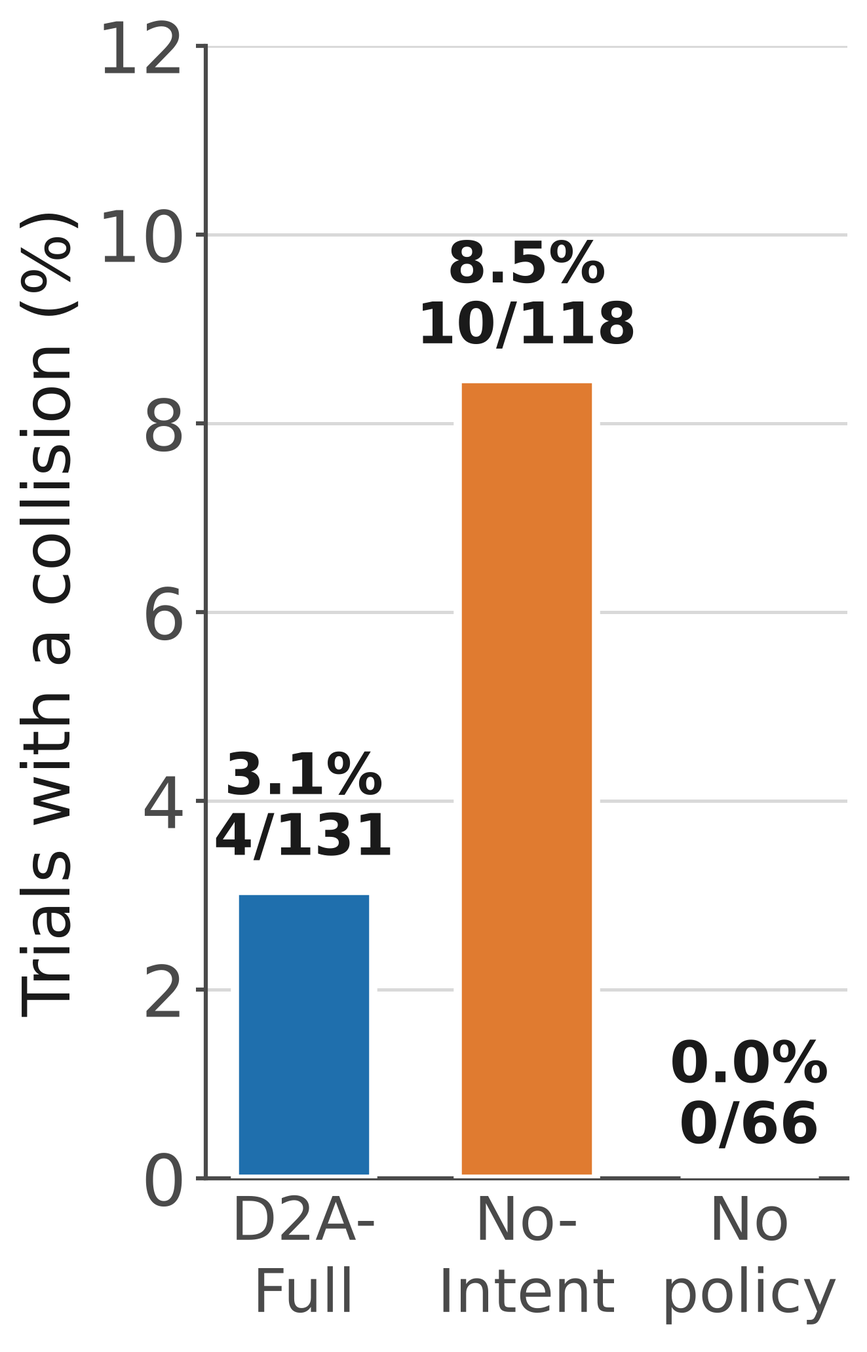
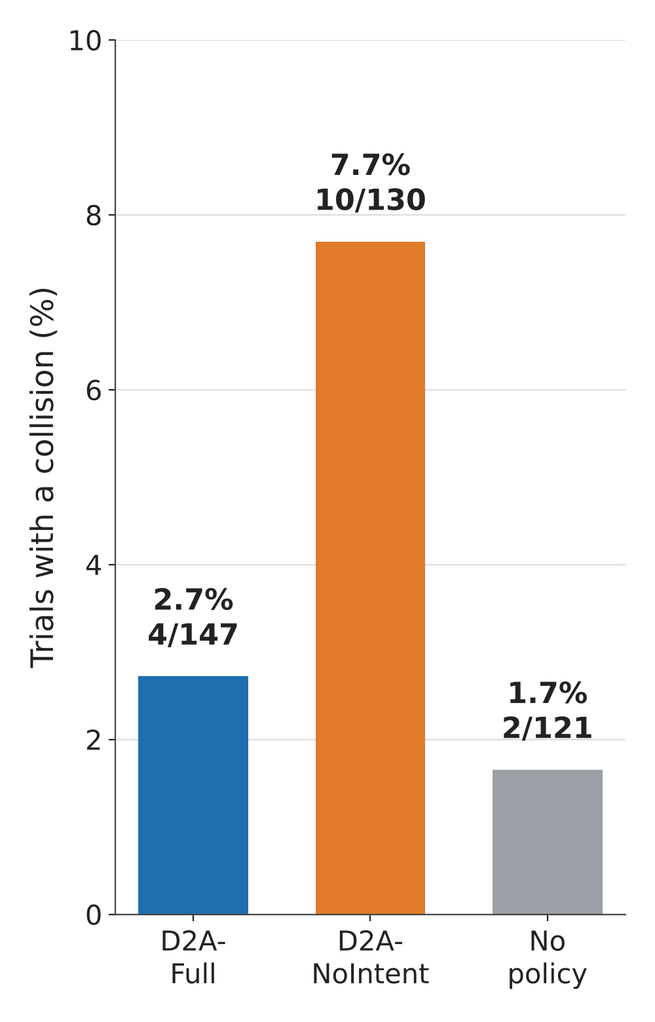
Update extended webpage per the paper's claims, add arxiv link

diff --git a/extended/index.html b/extended/index.html
@@ -109,6 +109,12 @@ figcaption b { color: var(--ink); }
 @media (max-width: 860px) { .stats { grid-template-columns: repeat(2, 1fr); } }
 
 /* callouts */
+.eyebrow { font-size: 12px; font-weight: 650; letter-spacing: .08em; text-transform: uppercase; color: var(--accent); margin: 0 0 6px; }
+.questions { list-style: none; padding: 0; margin: 16px 0 0; display: grid; gap: 10px; }
+.questions li { background: var(--surface); border: 1px solid var(--line); border-radius: var(--radius); padding: 12px 16px; }
+.questions a { text-decoration: none; font-weight: 600; }
+.questions .where { display: block; font-size: 13px; color: var(--muted); margin-top: 2px; }
+.takeaways h3 { margin-top: 22px; }
 .callout { background: var(--surface); border: 1px solid var(--line); border-left: 4px solid var(--accent); border-radius: var(--radius); padding: 14px 18px; margin: 20px 0; }
 .callout.warn { background: var(--warn-bg); border-color: var(--warn-line); border-left-color: var(--nointent); }
 .callout p:last-child { margin-bottom: 0; }
@@ -158,6 +164,7 @@ footer.site { margin-top: 60px; border-top: 1px solid var(--line); padding: 26px
     <a href="#urban">Urban</a>
     <a href="#grip">GRIP</a>
     <a href="#videos">Videos</a>
+    <a href="#takeaways">Takeaways</a>
     <a href="#cite">Cite</a>
     <span class="spacer"></span>
     <button id="theme" type="button" aria-label="Toggle dark mode">Theme</button>
@@ -187,9 +194,8 @@ footer.site { margin-top: 60px; border-top: 1px solid var(--line); padding: 26px
     <p class="affil">Contact: Jonathan DeCastro, <a href="mailto:jonathan.decastro@tri.global">jonathan.decastro@tri.global</a></p>
 
     <div class="links">
-      <!-- TODO: set hrefs and remove class "soon" as each becomes available -->
-      <a class="btn primary soon" href="#" id="link-paper">Extended paper</a>
-      <a class="btn soon" href="#" id="link-arxiv">arXiv</a>
+      <a class="btn primary" href="https://arxiv.org/abs/2610.34650" id="link-paper">Paper (arXiv)</a>
+      <a class="btn" href="https://arxiv.org/pdf/2610.34650" id="link-pdf">PDF</a>
       <a class="btn" href="https://github.com/ToyotaResearchInstitute/dream2assist">Code (CoRL version)</a>
       <a class="btn" href="#videos">Videos</a>
       <a class="btn" href="#cite">BibTeX</a>
@@ -224,22 +230,35 @@ footer.site { margin-top: 60px; border-top: 1px solid var(--line); padding: 26px
 
 <div class="stats">
   <div class="stat"><div class="n">+52%</div><div class="l">more steering events aligned with the driver's chosen side</div><div class="s">215 vs 141, urban A/B</div></div>
-  <div class="stat"><div class="n">3.1% vs 8.5%</div><div class="l">of trials with a collision, intent vs no intent</div><div class="s">4/131 vs 10/118 trials</div></div>
-  <div class="stat"><!-- TODO: paper reports both 81%→90% (Sec. 6, Table 4, App. D.1) and 80%→88% (Sec. 7.1); reconcile during revision -->
-    <div class="n">80% → 88%</div><div class="l">overtake success on racing straights</div><div class="s">N = 24, trend (p = .069)</div></div>
+  <div class="stat"><div class="n">2.7% vs 7.7%</div><div class="l">of trials with a collision, intent vs no intent</div><div class="s">4/147 vs 10/130 trials</div></div>
+  <div class="stat"><!-- arXiv v1: 80%→89% per participant (Sec. 6.2, App. D.1, Fig. 14); Sec. 7.1 still says 80%→88%; pooled Table 4 is 0.810→0.899 -->
+    <div class="n">80% → 89%</div><div class="l">overtake success on racing straights</div><div class="s">per participant, n = 23, trend (p = .069)</div></div>
   <div class="stat"><div class="n">0</div><div class="l">retraining steps from simulator to the GRIP test vehicle</div><div class="s">feasibility, N = 3</div></div>
 </div>
 
 <!-- ABSTRACT -->
 <section id="abstract">
   <h2>Abstract</h2>
-  <p>Assistive agents in shared-control settings face a dual challenge: acting proactively to align with the human's intentions while remaining legible enough for the human to comprehend and fluently respond in real time. We present Dream2Assist, a model-based reinforcement learning framework for tightly-coupled shared decision making that addresses both sides of this challenge. Our approach extends a recurrent state-space world model with intent inference, enabling an assistive policy trained via fictitious co-play with the human to anticipate and support discrete human objectives without overriding human agency.</p>
+  <p>Assistive agents in shared-control settings face a dual challenge: acting proactively to align with the human's intentions while remaining legible enough for the human to comprehend and fluently respond in real time. We present Dream2Assist, a model-based reinforcement learning framework for tightly-coupled shared decision making that addresses both sides of this challenge. Our approach extends a recurrent state-space world model with intent inference, enabling an assistive policy trained via fictitious co-play to anticipate and support discrete human objectives without overriding human agency.</p>
   <p>Beyond the computational framework, we describe the full deployment pipeline needed to translate a world-model-based policy into a safe, human-centered system in a resource-efficient way. Crucially, we address the sim-to-real-human gap via policy down-selection and reward restructuring within an iterative human-machine interface design. We validate the framework through three human-subjects studies and a preliminary on-vehicle deployment spanning two qualitatively distinct domains: high-speed racing (N = 30) and urban driving with richer intent structure (N = 10). Our results demonstrate that intent conditioning yields measurable improvements in torque alignment and collision rate. We surface key design insights and practices for deploying learning-based assistive agents in safety-critical, real-time human-robot teaming.</p>
+</section>
+
+<!-- QUESTIONS -->
+<section id="questions">
+  <h2>The questions we set out to answer</h2>
+  <ol class="questions">
+    <li><a href="#method">Can an assistant infer what the driver is trying to do, and help in a way that fits?</a><span class="where">Method</span></li>
+    <li><a href="#pipeline">How do you take a policy trained with simulated partners to real people?</a><span class="where">Deployment pipeline</span></li>
+    <li><a href="#racing">Does the assistant help real drivers at speed, and where does it struggle?</a><span class="where">Racing · Evals 1 and 2</span></li>
+    <li><a href="#urban">Does inferring intent, by itself, make the assistant a better teammate?</a><span class="where">Urban driving · Eval 3, double-blind A/B</span></li>
+    <li><a href="#grip">Does the policy carry over to a real vehicle without retraining?</a><span class="where">GRIP · on-vehicle deployment</span></li>
+  </ol>
 </section>
 
 <!-- METHOD -->
 <section id="method">
-  <h2>Method: a world model that knows what you are trying to do</h2>
+  <p class="eyebrow">Method</p>
+  <h2>Can an assistant infer what the driver is trying to do, and help in a way that fits?</h2>
   <p class="lede">Dream2Assist gives an assistant a latent model of its human partner. The assistant reads the driver's behavior, infers a discrete objective such as <em>pass</em> versus <em>stay behind</em>, or <em>left</em> versus <em>right</em> around a hazard, and shapes its assistance to fit.</p>
 
   <figure class="fig-plain">
@@ -272,7 +291,8 @@ footer.site { margin-top: 60px; border-top: 1px solid var(--line); padding: 26px
 
 <!-- PIPELINE -->
 <section id="pipeline">
-  <h2>From simulation to a system people can use</h2>
+  <p class="eyebrow">Deployment pipeline</p>
+  <h2>How do you take a policy trained with simulated partners to real people?</h2>
   <p>A policy that works with simulated partners is not yet a system that works with people. The paper contributes a deployment pipeline that combines automated policy screening, counterfactual log replay, and human-in-the-loop vetting with an interface-design process that is resolved before policy quality is formally evaluated.</p>
   <figure class="fig-plain">
     <img src="img/workflow.png" alt="Workflow diagram showing iterative policy refinement and iterative interface piloting" loading="lazy">
@@ -282,7 +302,9 @@ footer.site { margin-top: 60px; border-top: 1px solid var(--line); padding: 26px
 
 <!-- STUDIES -->
 <section id="studies">
-  <h2>Two domains, three studies, one on-vehicle deployment</h2>
+  <p class="eyebrow">Studies</p>
+  <h2>Where did we test it?</h2>
+  <p>Two domains, three human-subjects studies, and one on-vehicle deployment.</p>
   <figure>
     <img src="img/domains.jpg" alt="Left: CARLA racing scene at Thunderhill. Right: top-down view of the Unreal Engine town map" loading="lazy">
     <figcaption><b>Racing</b> (left, CARLA, Thunderhill Raceway West track) is fast and time-pressured with two intents: pass or stay behind. <b>Urban</b> (right, Unreal Engine town map, 70 × 70 m) is surprise-rich, with a wrong-way vehicle, a driveway pop-out, and a roundabout. Urban intents are left or right around the hazard in the studies reported here.</figcaption>
@@ -304,13 +326,15 @@ footer.site { margin-top: 60px; border-top: 1px solid var(--line); padding: 26px
 
 <!-- RACING -->
 <section id="racing">
-  <h2>Racing: strong on straights, and a clear path on turns</h2>
+  <p class="eyebrow">Racing · Evals 1 and 2</p>
+  <h2>Does the assistant help real drivers at speed, and where does it struggle?</h2>
+  <p class="lede">It helps on straights. Turns exposed a gap between simulated and real partners, and targeted refinements moved the policy in the right direction.</p>
 
   <h3>Eval 1: characterization (N = 24)</h3>
-  <p>Drivers attempted eight overtakes of increasing difficulty, each with and without assistance. On straights, assistance raised overtake success from 80% to 88% (p = .069) and increased both overtake speed and minimum clearance to the opponent. Turns were harder: overtake success was lower with assistance (about 55% without, about 27% with), as was clearance. Inspecting the assistive inputs pointed to over-steering just before the turn, which gave us a specific target for refinement.</p>
+  <p>Drivers attempted eight overtakes of increasing difficulty, each with and without assistance. On straights, assistance raised per-participant overtake success from 80% to 89% (p = .069, n = 23) and increased minimum clearance to the opponent (+0.47 m). Turns were harder: per-participant overtake success fell from 51% to 21% (p &lt; .001), and minimum clearance fell from 1.99 m to 1.01 m. Inspecting the assistive inputs pointed to over-steering just before the turn, which gave us a specific target for refinement.</p>
   <figure class="fig-plain">
-    <img src="img/eval1_overtake_by_track.png" alt="Bar chart of mean overtake rate by track type for no policy and policy" loading="lazy" style="max-width:520px;margin:auto">
-    <figcaption><b>Overtake rate by track type</b> in Eval 1. Assistance helped on straights, and turns revealed what to refine.</figcaption>
+    <img src="img/fig14_eval1_overtake.png" alt="Per-participant overtake rate without and with the policy, on straights (80% to 89%) and turns (51% to 21%)" loading="lazy" style="max-width:600px;margin:auto">
+    <figcaption><b>Overtake rate per participant</b> in Eval 1 (n = 23 with both conditions). Thin lines are participants and the thick line is the mean. Assistance helped on straights, and turns revealed what to refine.</figcaption>
   </figure>
   <figure>
     <div class="pair">
@@ -333,16 +357,23 @@ footer.site { margin-top: 60px; border-top: 1px solid var(--line); padding: 26px
   </div>
 
   <h3>Eval 2: targeted refinement (N = 6)</h3>
-  <p>The refinements were human-data augmentation, output smoothing, and reward restructuring that penalizes collapse to a single intent. The refinements moved the policy in the intended direction: net intent-aligned steering torque improved by about 1.1 Nm (paired t-test, p = .049), the refined policy was preferred on 16 of 27 trials and on a majority of turn trials, and likability rose (3.31 vs 2.95). The pilot is small and aimed at direction rather than significance, so the likability and preference differences are not statistically significant.</p>
-  <figure class="fig-plain">
-    <img src="img/eval2_torque_traces.png" alt="Event-locked average torque traces for the initial and refined policies leading up to an overtake" loading="lazy" style="max-width:640px;margin:auto">
-    <figcaption><b>Torque leading up to the overtake</b> (time-aligned at t = 0). The refined policy produces more intent-aligned torque and less intent-opposing torque than the initial one.</figcaption>
-  </figure>
+  <p>The refinements were human-data augmentation, output smoothing, and reward restructuring that penalizes collapse to a single intent. The refinements moved the policy in the intended direction. The refined policy was preferred on 16 of 27 trials (59%), on both straights and turns, and likability rose (3.31 vs 2.95). The gap between intent-aligned and intent-opposing AI steering narrowed (from −10.1° to −5.6°, better for 3 of 5 participants), and on turns the initial policy applied roughly twice the steering of the refined one in the seconds before the overtake (about 50° vs 25°). The pilot is small and aimed at direction rather than significance, so none of these differences is statistically significant.</p>
+  <div class="pair" style="margin:22px 0;align-items:start">
+    <figure class="fig-plain">
+      <img src="img/fig7_eval2_preference.png" alt="Bar chart of trial preferences: refined preferred on 62% of straight trials, 57% of turn trials, 59% of all trials" loading="lazy">
+      <figcaption><b>Which policy drivers preferred</b>, by where the overtake happened. The refined policy was preferred on 59% of trials (16 of 27).</figcaption>
+    </figure>
+    <figure class="fig-plain">
+      <img src="img/fig6_eval2_steering.png" alt="Averaged AI steering magnitude and signed steering around overtake onset for the initial and refined policies" loading="lazy">
+      <figcaption><b>AI steering around the overtake</b> (onset at t = 0), all participants and segments. Top: steering magnitude. Bottom: signed steering. Lines show mean ± SEM.</figcaption>
+    </figure>
+  </div>
 </section>
 
 <!-- URBAN -->
 <section id="urban">
-  <h2>Urban: isolating the effect of intent</h2>
+  <p class="eyebrow">Urban driving · Eval 3</p>
+  <h2>Does inferring intent, by itself, make the assistant a better teammate?</h2>
   <p class="lede">Eval 3 is the cleanest test. Same architecture, same rewards, same safety layer, and the intent predictor is the only difference. Participants did not know which assistant they were driving.</p>
 
   <h3>The hazards, driven without assistance</h3>
@@ -382,30 +413,34 @@ footer.site { margin-top: 60px; border-top: 1px solid var(--line); padding: 26px
   <div class="pair" style="margin:22px 0">
     <figure class="fig-plain">
       <img src="img/fig_torque_alignment_total_all12.png" alt="Bar chart of torque alignment events: 215 with intent, 141 without, plus 52 percent" loading="lazy" style="max-height:420px;width:auto;margin:auto">
-      <figcaption><b>Alignment.</b> Torque-alignment events with the driver's chosen side: 215 vs 141 (+52%).</figcaption>
+      <figcaption><b>Alignment.</b> Torque-alignment events with the driver's chosen side: 215 vs 141 (+52%) over all 12 sessions, higher with intent for 8 of the 11 participants who drove both.</figcaption>
     </figure>
     <figure class="fig-plain">
-      <img src="img/fig_collision_rate.png" alt="Bar chart of collision rate: 3.1 percent with intent, 8.5 percent without intent, 0 percent with no policy" loading="lazy" style="max-height:420px;width:auto;margin:auto">
-      <figcaption><b>Collisions.</b> 3.1% (4/131) with intent, 8.5% (10/118) without, and 0% (0/66) with no assistance.</figcaption>
+      <img src="img/fig_collision_rate.png" alt="Bar chart of collision rate: 2.7 percent with intent, 7.7 percent without intent, 1.7 percent with no policy" loading="lazy" style="max-height:420px;width:auto;margin:auto">
+      <figcaption><b>Collisions.</b> 2.7% (4/147) with intent, 7.7% (10/130) without, and 1.7% (2/121) with no assistance.</figcaption>
     </figure>
   </div>
 
   <div class="callout">
-    <h3>Steers with the driver, and collisions more than halved</h3>
-    <p>With intent, the assistant steers with the driver and responds earlier, before the oncoming car passes. Without intent, it steers against the driver's chosen direction on average (see the torque traces for participant 03 below).</p>
-    <p>Conditioning on intent cut collisions from 8.5% to 3.1% relative to the otherwise identical no-intent assistant. The unassisted baseline recorded none. We attribute the remaining assisted collisions to a mix of risk compensation (people drove more aggressively when assisted) and residual policy errors at close range, and separating the two is a natural next step.</p>
+    <h3>Steers with the driver, and collisions cut by about two-thirds</h3>
+    <p>With intent, the assistant steers with the driver earlier on the approach. From about 3 to 1.5 s before the closest approach to the oncoming car, it was less misaligned with the driver than the no-intent assistant for all seven participants with usable traces. Without intent, it steers against the driver's chosen direction on average. In the final second the order flips for five of the seven, so the difference is concentrated in the approach (see participant 03 below).</p>
+    <p>Conditioning on intent cut collisions from 7.7% to 2.7% of trials relative to the otherwise identical no-intent assistant. Unassisted driving had 1.7%. Collisions were concentrated: they occurred for four of the ten participants, and one participant accounts for 8 of the 16. We attribute the remaining assisted collisions to a mix of risk compensation (people drove more aggressively when assisted) and residual policy errors at close range, and separating the two is a natural next step.</p>
   </div>
 
   <figure class="fig-plain">
-    <img src="img/eval3_p03_traces.png" alt="Averaged torque traces for participant 03 during the oncoming-car event, with and without intent" loading="lazy" style="max-width:640px;margin:auto">
-    <figcaption><b>One driver, one event.</b> Averaged torque for participant 03 as an oncoming car approaches (time-aligned at t = 0). Before the closest approach the no-intent policy steers, on average, against the driver's goal, while the intent-conditioned policy rises above neutral earlier.</figcaption>
+    <img src="img/fig8_p03_traces.png" alt="Averaged torque traces for participant 03 during the oncoming-car event, with and without intent" loading="lazy" style="max-width:640px;margin:auto">
+    <figcaption><b>One driver, one event.</b> Averaged torque for participant 03 as an oncoming car approaches (closest approach at t = 0). About 2.3 to 1.5 s before closest approach, the intent-conditioned assistant steers away from the oncoming car, in line with the driver's avoidance, while the no-intent assistant steers toward it (bottom trace). In the final second the pattern reverses.</figcaption>
   </figure>
 
   <h3>Ratings reveal individual preferences</h3>
-  <p>Mean ratings were similar for the two assistants (about 6.1 vs 6.2 out of 10), with no significant difference on any of seven Likert dimensions. The averages hide a real split: drivers divided almost evenly, and each assistant had clear fans. The largest single-driver difference (2.75 points) is more than twenty times the change in the mean, which makes personalization a promising direction.</p>
+  <p>Mean ratings were similar for the two assistants (6.05 vs 6.18 out of 10), with no significant difference on any of seven Likert dimensions. The averages hide a real split: five drivers rated each assistant higher, and each assistant had clear fans. The largest single-driver difference (2.75 points) is more than twenty times the change in the mean, which makes personalization a promising direction.</p>
   <figure class="fig-plain">
-    <img src="img/fig_same_drivers_two_pictures.png" alt="Two panels of per-participant lines. Left: torque-alignment events, with intent higher for most participants. Right: overall rating, split between participants." loading="lazy">
-    <figcaption><b>Same drivers, two pictures.</b> Left: torque alignment per participant favors the intent-conditioned assistant. Right: overall ratings scatter in both directions around a flat mean. These panels use the 10 analyzed participants, so the totals differ from the all-participant counts above.</figcaption>
+    <img src="img/fig9_eval3_alignment.png" alt="Four panels: total torque alignment events 215 vs 141; events per participant, mean 17.6 vs 12.8; mean torque per participant; aligned minus misaligned torque per participant" loading="lazy">
+    <figcaption><b>Alignment, per participant.</b> (a) Total and per-participant torque-alignment events, (b) mean torque, and (c) aligned minus misaligned torque in the oncoming-car event. With intent, 8 participants had more alignment events (2 tied, 1 fewer), and 8 of the 11 who drove both conditions experienced more intent-aligned torque.</figcaption>
+  </figure>
+  <figure class="fig-plain">
+    <img src="img/fig_per_participant_rating.png" alt="Per-participant overall ratings for the two assistants: five higher for each, means 6.05 and 6.18" loading="lazy" style="max-width:560px;margin:auto">
+    <figcaption><b>Ratings, per participant.</b> The same drivers' overall ratings split evenly: five rated each assistant higher, around nearly identical means (6.05 vs 6.18).</figcaption>
   </figure>
 
   <p>Open-ended feedback did separate the two policies, and the comments show the disagreement directly:</p>
@@ -417,7 +452,8 @@ footer.site { margin-top: 60px; border-top: 1px solid var(--line); padding: 26px
 
 <!-- GRIP -->
 <section id="grip">
-  <h2>GRIP: a first step onto a real vehicle</h2>
+  <p class="eyebrow">GRIP · on-vehicle deployment</p>
+  <h2>Does the policy carry over to a real vehicle without retraining?</h2>
   <p>We ran the urban scenario on GRIP, a real test vehicle on a track that emulates the simulator's vehicle dynamics, with the driving scene rendered in VR and force-feedback steering. The driver feels the car's actual motion. The same policy weights and intent space as Eval 3 were used, with minimal parameter changes for the steering hardware and <b>no retraining</b>. Three internal participants took part. In the oncoming-vehicle scenario the car held 13 to 14 mph while being steered around the hazard, and in the roundabout scenario it slowed from 9 to 4 mph. This is a feasibility demonstration, not a formal evaluation. The full deployment is shown in <a href="#videos">Video 3</a>.</p>
 
   <figure>
@@ -462,27 +498,38 @@ footer.site { margin-top: 60px; border-top: 1px solid var(--line); padding: 26px
 </section>
 
 <!-- TAKEAWAYS -->
-<section id="takeaways">
-  <h2>What we learned</h2>
+<section id="takeaways" class="takeaways">
+  <h2>Takeaways and open questions</h2>
+  <h3>Takeaways</h3>
   <ul class="tight">
-    <li><b>Intent conditioning pays off in measurable ways.</b> It raised alignment with the driver's choice by 52% and cut collisions relative to an otherwise identical assistant.</li>
-    <li><b>The policy transfers.</b> The same weights ran on the GRIP test vehicle with no retraining, and the racing straights showed the same direction of benefit.</li>
-    <li><b>Real partners teach what simulated ones cannot.</b> Turn performance in racing traced to simulated drivers that were more repeatable than people. Human-data augmentation, smoothing, and reward restructuring moved it in the right direction.</li>
-    <li><b>Preference is individual.</b> A flat average rating hid drivers who strongly preferred each assistant, which motivates policies that adapt their intervention style per driver.</li>
-    <li><b>Open directions.</b> Intent is assumed fixed within an episode, the urban studies are small, and the GRIP result is feasibility only. Online intent transitions and a powered on-vehicle study are the natural next steps.</li>
+    <li><b>Inferring intent makes the assistant a better teammate, measurably.</b> Against an otherwise identical assistant, intent conditioning produced 52% more steering aligned with the driver's chosen side and cut collisions from 7.7% to 2.7% of trials.</li>
+    <li><b>Assistance is light by default.</b> It stays small when the driver already drives like an intent-aligned expert, grows as the driver departs from that expert, and ramps down when the system is less certain of the driver's intent. This follows from the reward, not from a hand-coded rule.</li>
+    <li><b>A learned policy can reach real drivers through a structured pipeline.</b> Automated screening, counterfactual log replay, and human-in-the-loop testing, paired with interface design, took the policy from simulated partners to human studies and onto a real vehicle with no retraining.</li>
+    <li><b>Real partners expose gaps that simulated ones hide.</b> Racing turns revealed that simulated drivers were more repeatable than people. Human-data augmentation, smoothing, and reward restructuring moved the policy in the right direction.</li>
+    <li><b>Average ratings hide strong individual preferences.</b> Drivers split evenly on which assistant they preferred, even though the intent-conditioned one was objectively better aligned.</li>
+  </ul>
+  <h3>Open questions</h3>
+  <ul class="tight">
+    <li><b>Changing intent.</b> Intent is assumed fixed within an episode. How should the assistant track a driver who changes their mind mid-maneuver?</li>
+    <li><b>Personalization.</b> Can the assistant adapt its intervention style to each driver's preferred level of autonomy?</li>
+    <li><b>Risk compensation.</b> How much of the remaining assisted collisions comes from drivers taking more risk when assisted, and how much from residual policy error?</li>
+    <li><b>Scale and realism.</b> Do the results hold in a larger, powered on-vehicle study? The urban studies are small, and the GRIP result is a feasibility demonstration.</li>
   </ul>
 </section>
 
 <!-- CITE -->
 <section id="cite">
   <h2>Citation</h2>
-  <p>If you use this work, please cite the extended version (a final reference will be added when available):</p>
+  <p>If you use this work, please cite the extended version:</p>
   <button class="copy" type="button" data-target="bib-ext">Copy</button>
 <pre id="bib-ext">@misc{decastro2026dream2assist,
   title   = {Dream to Assist: Intent-Conditioned World Models for Shared Vehicle Control},
   author  = {DeCastro, Jonathan and Balch, Thomas and Sumner, Emily and Gopinath, Deepak and Dees, Laporsha and Reyes Gomez, Patricio and Weiss, Elliot and Applegate-Kenton, Megan and Rowell, Todd and Leonard, John and Balachandran, Avinash and Rosman, Guy},
   year    = {2026},
-  note    = {Extended version of the CoRL 2024 paper. TODO: add arXiv identifier or final reference}
+  eprint  = {2610.34650},
+  archivePrefix = {arXiv},
+  url     = {https://arxiv.org/abs/2610.34650},
+  note    = {Extended version of the CoRL 2024 paper}
 }</pre>
   <p>The initial version appeared at CoRL:</p>
   <button class="copy" type="button" data-target="bib-corl">Copy</button>

diff --git a/index.html b/index.html
@@ -55,10 +55,10 @@
 		<p><span class="bold">Extended version:</span> <a href="extended/">Dream to Assist: Intent-Conditioned World Models for Shared Vehicle Control</a>. This page describes the original CoRL 2024 paper. The extended version adds human-subjects studies in racing and urban driving and an on-vehicle deployment.</p>
 		<ul class="latest-stats">
 			<li><span class="n">+52%</span> steering events aligned with the driver's chosen side</li>
-			<li><span class="n">3.1% vs 8.5%</span> of trials with a collision, with vs without intent</li>
+			<li><span class="n">2.7% vs 7.7%</span> of trials with a collision, with vs without intent</li>
 			<li><span class="n">0</span> retraining steps to move from simulation to a real test vehicle</li>
 		</ul>
-		<a href="extended/" class="btn btn-blue">See the latest results</a>
+		<a href="extended/" class="btn btn-blue">See the latest results</a> <a href="https://arxiv.org/abs/2610.34650" class="btn">Read on arXiv</a>
 	</div>
 </div>
 <div class="content">
